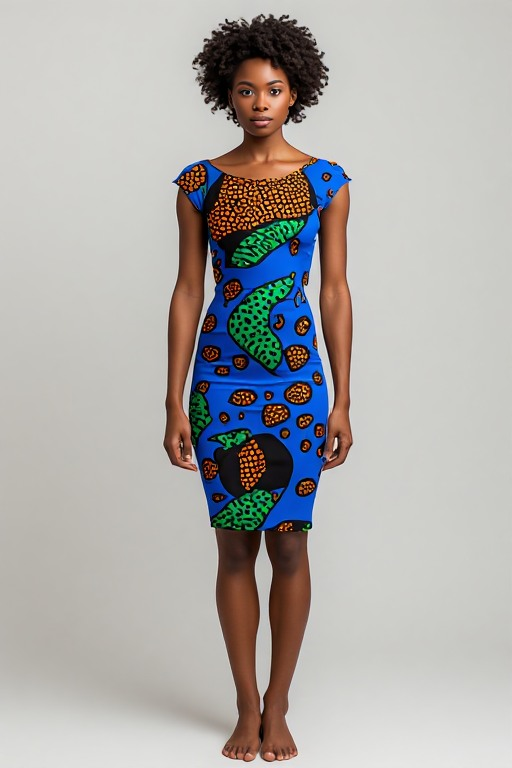
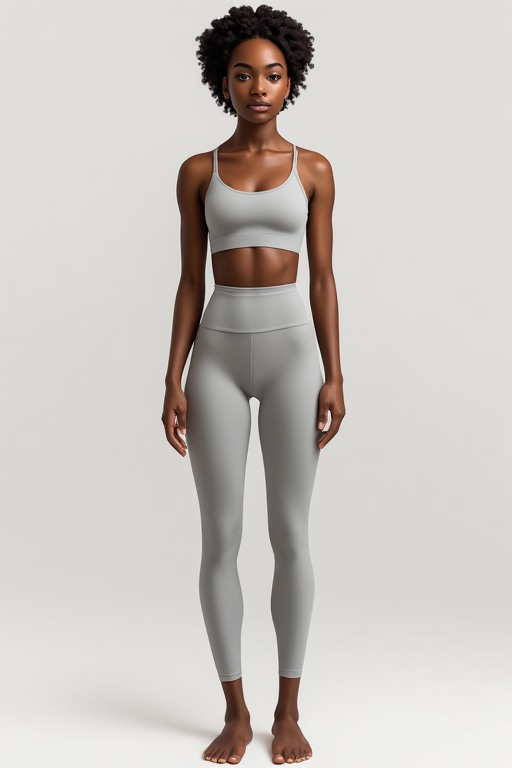
UI fix2

diff --git a/frontend/app/components/MeasurementShowcase.tsx b/frontend/app/components/MeasurementShowcase.tsx
@@ -27,13 +27,13 @@ const FIGURES: Figure[] = [
     key: 'female',
     label: 'Female',
     image: '/images/figure-female.png',
-    points: { chest: 33, waist: 46, hips: 55 },
+    points: { chest: 26, waist: 37, hips: 48 },
   },
   {
     key: 'male',
     label: 'Male',
-    image: null,
-    placeholder: "Male reference photo coming soon — the diagram works the same way once it's added.",
+    image: '/images/figure-male.png',
+    points: { chest: 27, waist: 37, hips: 47 },
   },
   {
     key: 'kids',
